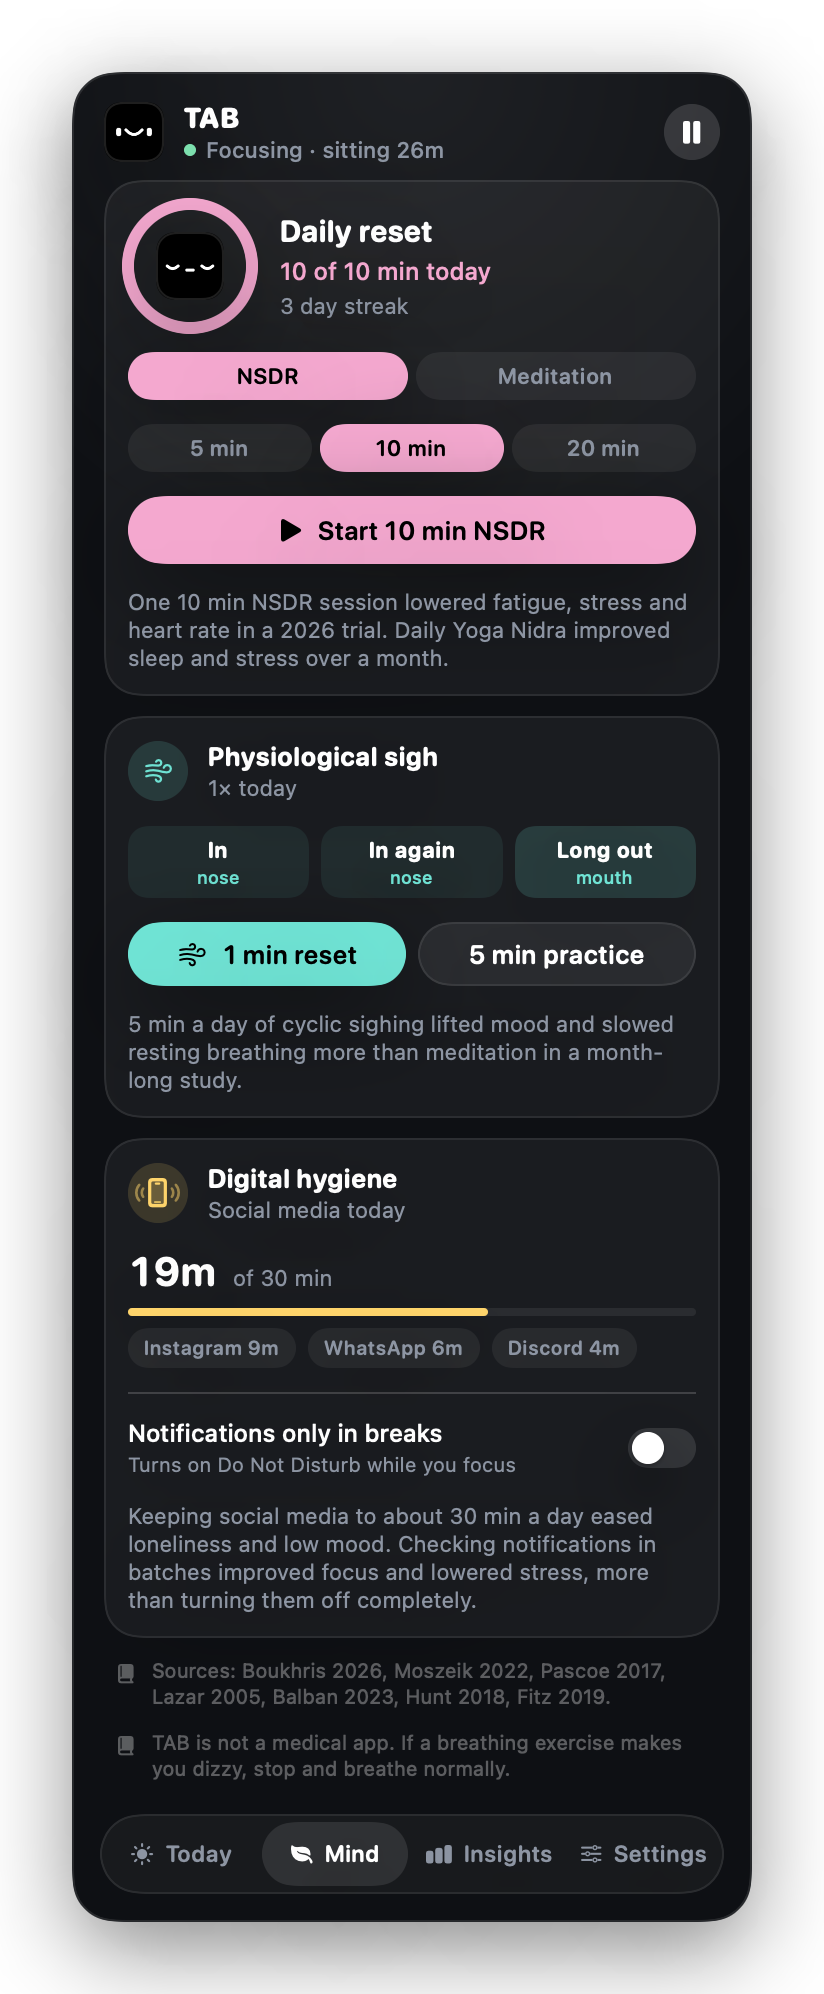
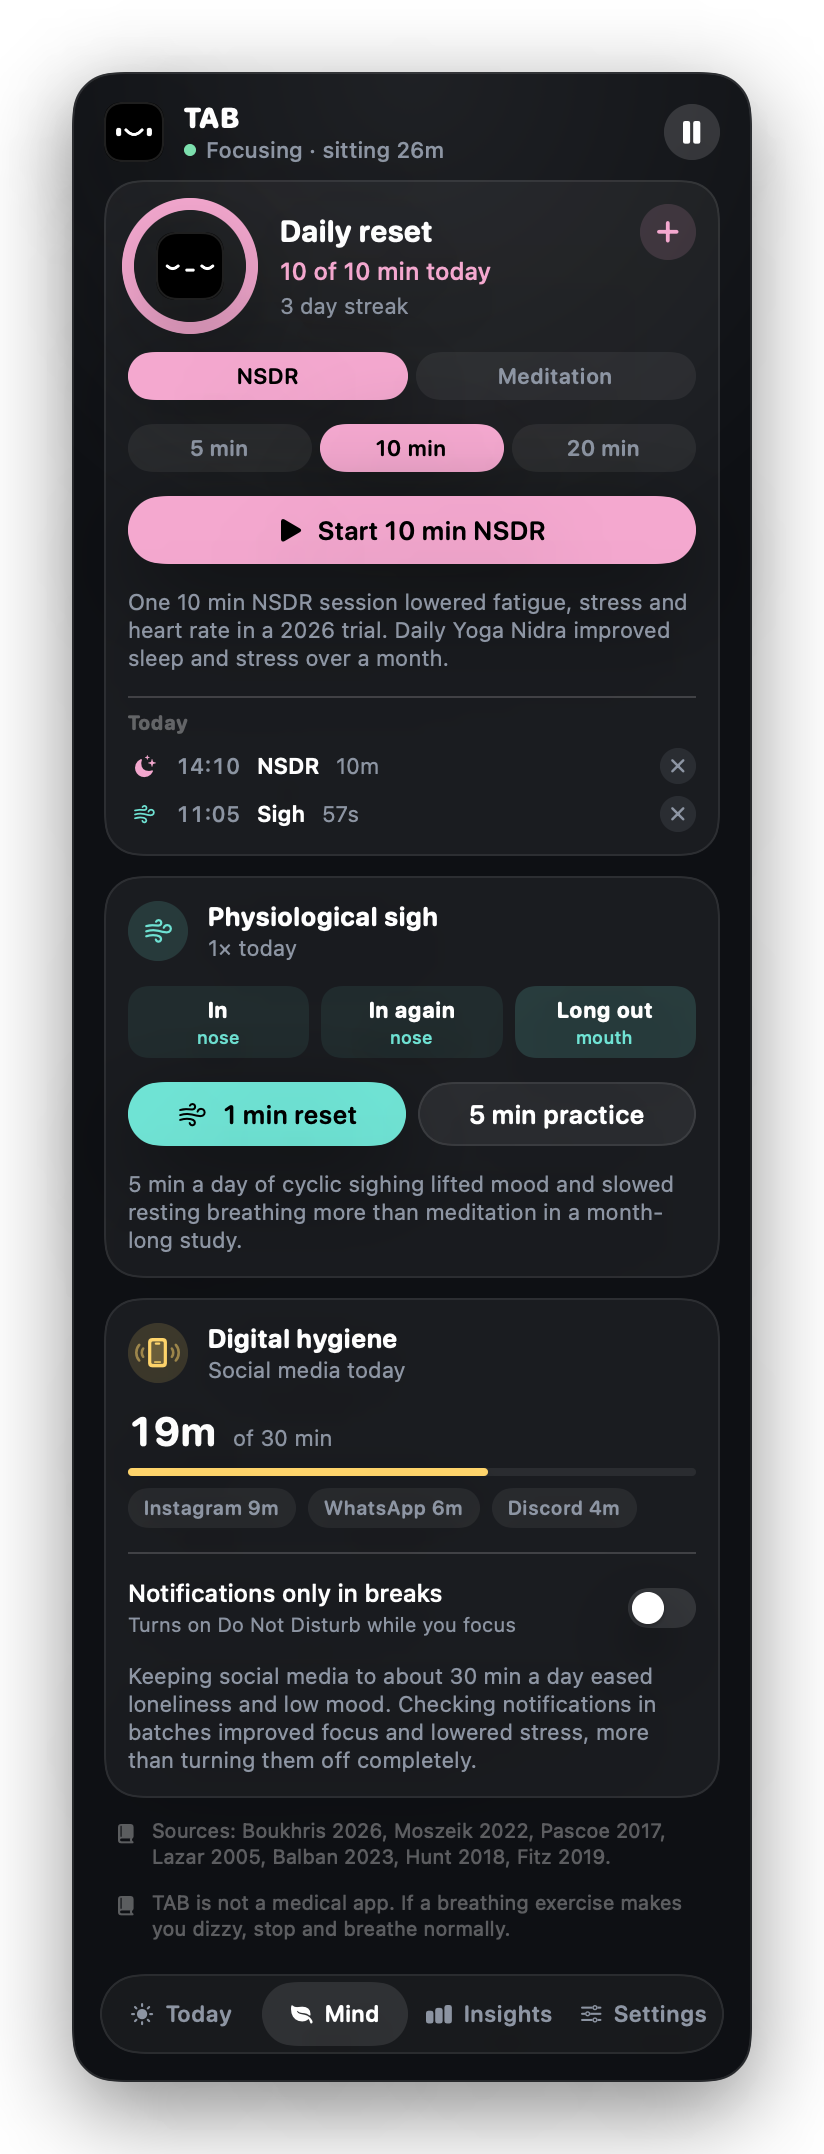
Log mind sessions you did on your own
- Plus button on the Daily reset card to add NSDR, meditation or a sigh
  with length and end time
- Today's sessions listed on the card, each can be removed
- takeabreak://log/<kind>/<minutes> link

diff --git a/Sources/MindView.swift b/Sources/MindView.swift
@@ -65,6 +65,7 @@ struct RestCard: View {
     @EnvironmentObject var mind: Mind
     @EnvironmentObject var prefs: Preferences
     @EnvironmentObject var store: HistoryStore
+    @State private var logging = false
 
     var body: some View {
         let done = store.today.restSeconds
@@ -89,6 +90,19 @@ struct RestCard: View {
                         .foregroundColor(Theme.dim)
                 }
                 Spacer(minLength: 0)
+                Button {
+                    withAnimation(.easeInOut(duration: 0.2)) { logging.toggle() }
+                } label: {
+                    Image(systemName: logging ? "xmark" : "plus")
+                }
+                .buttonStyle(IconButtonStyle(size: 28, tint: Theme.mind))
+                .help("Log a session you did without TAB")
+                .frame(maxHeight: .infinity, alignment: .top)
+            }
+            .fixedSize(horizontal: false, vertical: true)
+            if logging {
+                ManualLogForm { withAnimation(.easeInOut(duration: 0.2)) { logging = false } }
+                    .transition(.opacity.combined(with: .move(edge: .top)))
             }
             HStack(spacing: 4) {
                 Chip(title: "NSDR", selected: prefs.mindKind == .nsdr, tint: Theme.mind) { prefs.mindKind = .nsdr }
@@ -109,8 +123,119 @@ struct RestCard: View {
                 .font(.system(size: 11))
                 .foregroundColor(Theme.dim)
                 .fixedSize(horizontal: false, vertical: true)
+            if !store.today.mindSessions.isEmpty {
+                TodaySessions(sessions: store.today.mindSessions)
+            }
         }
         .card(padding: 12, radius: 18)
+    }
+}
+
+struct ManualLogForm: View {
+    @EnvironmentObject var mind: Mind
+    @EnvironmentObject var prefs: Preferences
+    var onDone: () -> Void
+
+    @State private var kind: MindKind?
+    @State private var minutes: Int?
+    @State private var endedAgo = 0
+
+    var body: some View {
+        let kind = self.kind ?? prefs.mindKind
+        let minutes = self.minutes ?? prefs.mindGoal
+        VStack(alignment: .leading, spacing: 10) {
+            Text("Log a session you did on your own")
+                .font(.system(size: 12, weight: .semibold))
+                .foregroundColor(.white)
+            HStack(spacing: 4) {
+                ForEach(MindKind.allCases) { k in
+                    Chip(title: k == .breathing ? "Sigh" : k.title, selected: kind == k, tint: Theme.mind) { self.kind = k }
+                }
+            }
+            HStack {
+                Text("Length")
+                    .font(.system(size: 12, weight: .medium))
+                    .foregroundColor(.white)
+                Spacer()
+                ValueStepper(value: Binding(get: { minutes }, set: { self.minutes = $0 }), range: 1...120) { "\($0) min" }
+            }
+            HStack(spacing: 4) {
+                ForEach([5, 10, 15, 20, 30], id: \.self) { m in
+                    Chip(title: "\(m)", selected: minutes == m, tint: Theme.mind) { self.minutes = m }
+                }
+            }
+            HStack {
+                Text("Ended")
+                    .font(.system(size: 12, weight: .medium))
+                    .foregroundColor(.white)
+                Spacer()
+                ValueStepper(value: $endedAgo, range: 0...maxAgo(length: minutes), step: 15) {
+                    $0 == 0 ? "just now" : "\(Fmt.duration($0 * 60)) ago"
+                }
+            }
+            HStack(spacing: 6) {
+                Button("Save") {
+                    mind.log(kind, minutes: minutes, endedMinutesAgo: min(endedAgo, maxAgo(length: minutes)))
+                    onDone()
+                }
+                .buttonStyle(PillButtonStyle(filled: true, tint: Theme.mind, height: 30))
+                Button("Cancel", action: onDone)
+                    .buttonStyle(PillButtonStyle(filled: false, height: 30))
+            }
+        }
+        .padding(10)
+        .background(RoundedRectangle(cornerRadius: 14, style: .continuous).fill(Theme.mind.opacity(0.08)))
+    }
+
+    private func maxAgo(length: Int) -> Int {
+        let c = Calendar.current.dateComponents([.hour, .minute], from: Date())
+        let sinceMidnight = (c.hour ?? 0) * 60 + (c.minute ?? 0)
+        let room = max(0, sinceMidnight - length)
+        return min(12 * 60, room / 15 * 15)
+    }
+}
+
+struct TodaySessions: View {
+    @EnvironmentObject var mind: Mind
+    var sessions: [MindSession]
+
+    var body: some View {
+        VStack(alignment: .leading, spacing: 6) {
+            Divider().overlay(Theme.stroke)
+            Text("Today")
+                .font(.system(size: 10, weight: .bold, design: .rounded))
+                .foregroundColor(Theme.faint)
+            ForEach(Array(sessions.suffix(5).reversed().enumerated()), id: \.offset) { _, session in
+                HStack(spacing: 8) {
+                    Image(systemName: session.kind.symbol)
+                        .font(.system(size: 10, weight: .bold))
+                        .foregroundColor(session.kind == .breathing ? Theme.breath : Theme.mind)
+                        .frame(width: 16)
+                    Text(Fmt.time(session.start))
+                        .font(.system(size: 11, weight: .medium))
+                        .monospacedDigit()
+                        .foregroundColor(Theme.dim)
+                    Text(session.kind == .breathing ? "Sigh" : session.kind.title)
+                        .font(.system(size: 11, weight: .semibold))
+                        .foregroundColor(.white)
+                    Text(Fmt.duration(session.seconds))
+                        .font(.system(size: 11))
+                        .foregroundColor(Theme.dim)
+                    if session.manual == true {
+                        Text("added")
+                            .font(.system(size: 9, weight: .semibold))
+                            .foregroundColor(Theme.mind)
+                            .padding(.horizontal, 5)
+                            .frame(height: 14)
+                            .background(Capsule().fill(Theme.mind.opacity(0.12)))
+                    }
+                    Spacer(minLength: 0)
+                    Button { mind.remove(session) } label: { Image(systemName: "xmark") }
+                        .buttonStyle(IconButtonStyle(size: 18, tint: Theme.dim))
+                        .help("Remove")
+                }
+            }
+        }
     }
 }
 

diff --git a/Sources/Mind.swift b/Sources/Mind.swift
@@ -406,6 +406,29 @@ final class Mind: ObservableObject {
         summary = nil
     }
 
+    func log(_ kind: MindKind, minutes: Int, endedMinutesAgo: Int = 0) {
+        let seconds = max(1, minutes) * 60
+        let end = Date().addingTimeInterval(-Double(max(0, endedMinutesAgo) * 60))
+        let start = end.addingTimeInterval(-Double(seconds))
+        let goal = prefs.scoredMindGoal
+        let limit = prefs.scoredSocialLimit
+        store.update(start) { day in
+            day.mindSessions.append(MindSession(start: start, seconds: seconds, kind: kind, manual: true))
+            day.mindSessions.sort { $0.start < $1.start }
+            day.mindGoal = goal
+            day.socialLimit = limit
+        }
+        if engine.nudge == .mindPractice && store.today.restSeconds >= prefs.mindGoal * 60 {
+            engine.clearNudge()
+        }
+    }
+
+    func remove(_ session: MindSession) {
+        store.update(session.start) { day in
+            if let index = day.mindSessions.firstIndex(of: session) { day.mindSessions.remove(at: index) }
+        }
+    }
+
     func skipToday() {
         skippedDay = HistoryStore.key(Date())
         engine.clearNudge()

diff --git a/Sources/AppDelegate.swift b/Sources/AppDelegate.swift
@@ -46,6 +46,11 @@ final class AppDelegate: NSObject, NSApplicationDelegate {
             case "pause": engine.pause(minutes: Int(url.lastPathComponent) ?? 60)
             case "resume": engine.resume()
             case "end": mind.finish(completed: false)
+            case "log":
+                let parts = url.pathComponents.filter { $0 != "/" }
+                let kind = parts.first.flatMap { name in MindKind.allCases.first { $0.rawValue == name || (name == "sigh" && $0 == .breathing) } } ?? prefs.mindKind
+                let minutes = parts.dropFirst().first.flatMap { Int($0) } ?? prefs.mindGoal
+                mind.log(kind, minutes: minutes)
             default: statusBar?.showPanel()
             }
         }

diff --git a/Sources/Models.swift b/Sources/Models.swift
@@ -75,6 +75,7 @@ struct MindSession: Codable, Hashable {
     var start: Date
     var seconds: Int
     var kind: MindKind
+    var manual: Bool? = nil
 }
 
 struct DayLog: Codable, Identifiable {

diff --git a/README.md b/README.md
@@ -116,9 +116,14 @@ NSDR (non-sleep deep rest) is a guided body scan you do lying down or leaning ba
 
 TAB reminds you once a day at a time you choose (2 pm by default, right in the after-lunch dip) and only if you haven't done it yet. Do it every day and you build a streak.
 
-<p align="center">
-  <img src="docs/banner-mind.png" alt="Daily reset reminder" width="50%">
-</p>
+Meditated on your own, in a class or with another app? Tap the **+** on the Daily reset card, pick what you did, how long and when it ended, and it counts for your goal, streak and score just like a session in TAB. Today's sessions are listed right below, so you can remove one if you made a mistake.
+
+<table>
+  <tr>
+    <td valign="top"><img src="docs/banner-mind.png" alt="Daily reset reminder"></td>
+    <td valign="top"><img src="docs/mind-log.png" alt="Log a session you did on your own"></td>
+  </tr>
+</table>
 
 <p align="center">
   <img src="docs/session-nsdr.webp" alt="NSDR session" width="49%">
@@ -246,6 +251,7 @@ TAB understands `takeabreak://` links, so you can trigger it from the Shortcuts 
 | `takeabreak://breathe` | 1 minute physiological sigh (`takeabreak://breathe/5` for 5 minutes) |
 | `takeabreak://nsdr` | Start your NSDR (`takeabreak://nsdr/20` for 20 minutes) |
 | `takeabreak://meditate` | Start a breath meditation |
+| `takeabreak://log/meditation/18` | Log a session you did on your own (`nsdr`, `meditation` or `sigh`, then minutes) |
 | `takeabreak://break` / `takeabreak://back` | Start or end a break |
 | `takeabreak://water` | Log a glass of water (`takeabreak://water/500` for 500 ml) |
 | `takeabreak://stand` | Log a stand-up |
